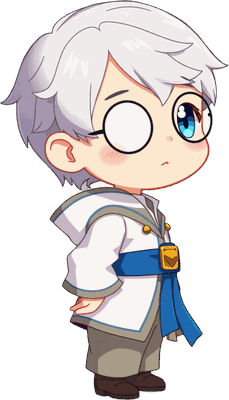
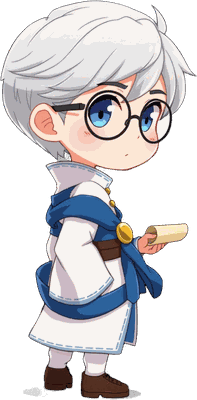
v0.68.0: 紅蓮の衣装を変えて等身の見え方を揃える + 学士の頭を小さく
報告: 「紅蓮だけ足が長すぎる/顔が小さすぎる/足の左右が逆」「他と統一感は出せないの?」

原因が分かった。紅蓮だけ「短いスカート+ブーツ」で脚が露出していた。
他の5人は長いローブやコートで脚が隠れているので、同じ3頭身の指定でも
彼女だけ脚長に見えていた。頭身の数値をいくらいじっても揃わないはずだった。

・紅蓮の衣装を膝下まである長いコートに変更。輪郭が他と揃った
・頭の割合は種によって 33%〜53% まで振れる。目分量で「短く」「小さく」と
  足すのをやめ、種を複数試して測り、平均に近いものを選ぶようにした
  (紅蓮 44.8% / 学士 40.2%。他は 43.5 / 47.2 / 31.5 / 46.5)
・学士と紅蓮は左を向いていたので反転
・倍率は ±6% に留めた

diff --git a/shared/characters.ts b/shared/characters.ts
@@ -38,20 +38,20 @@ export const CHAR_CHANGE_COST = 200;
 //   ±8%までに抑え、頭を揃えきるより背丈の自然さを優先する。
 //   帽子や髭のある子は測定値そのものが当てにならない(紫紺は測ると1.37倍
 //   必要と出るが、そのとおりにすると1人だけ見上げるほど大きくなる)。
-// 測定値(頭の幅 / 全身の高さ): 43.5% / 49.8% / 43.0% / 47.2% / 31.5% / 46.5%(平均 43.6%)
+// 測定値(頭の幅 / 全身の高さ): 43.5% / 40.2% / 44.8% / 47.2% / 31.5% / 46.5%(平均 42.3%)
 export const CHARACTERS: CharacterDef[] = [
   { id: 0, name: '黒金の魔女', note: '雷を操り、魔導書に真理を読む',
-    element: 'thunder', scale: 1.02 },
+    element: 'thunder', scale: 1.00 },
   { id: 1, name: '白銀の学士', note: '風を読み、記録と観測を重んじる',
-    element: 'wind', scale: 0.92 },
+    element: 'wind', scale: 1.04 },
   { id: 2, name: '紅蓮の戦導士', note: '炎を纏い、前へ出て杖を振るう',
-    element: 'fire', scale: 1.02 },
+    element: 'fire', scale: 1.00 },
   { id: 3, name: '翠緑の薬導士', note: '水を扱い、調合と薬に通じた癒し手',
-    element: 'water', scale: 0.96 },
+    element: 'water', scale: 0.94 },
   { id: 4, name: '紫紺の導師', note: '大地を鎮める、古き術の大魔導士',
     element: 'earth', scale: 1.00 },
   { id: 5, name: '蒼氷の術士', note: '氷を結び、静けさの中で術を編む',
-    element: 'ice', scale: 0.98 },
+    element: 'ice', scale: 0.96 },
 ];
 
 // 表示倍率(範囲外なら等倍)

diff --git a/shared/version.ts b/shared/version.ts
@@ -4,6 +4,6 @@
 // BUILD_DATE は npm run build のたびに tools/stamp-version.mjs が
 // 実際の時刻(日本時間)で書き換えるので、手で触らないこと。
 
-export const VERSION = '0.67.0';
-export const BUILD_DATE = '2026-08-07 06:56';
+export const VERSION = '0.68.0';
+export const BUILD_DATE = '2026-08-07 07:03';
 export const COPYRIGHT = 'Copyright © 2026 YuriPapa';
